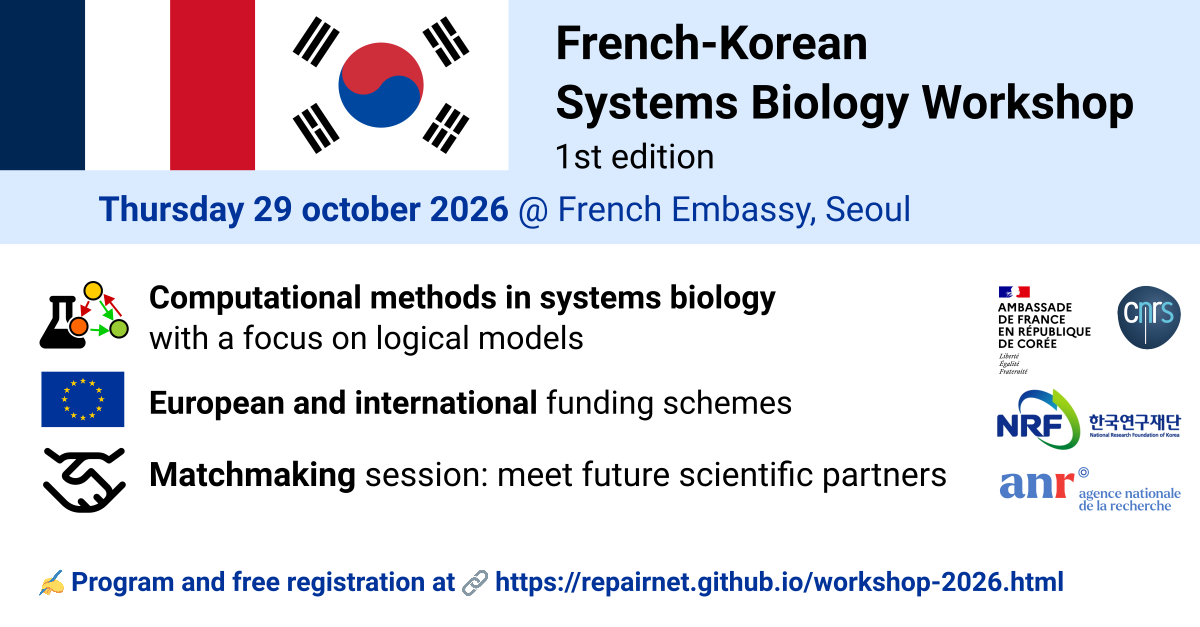
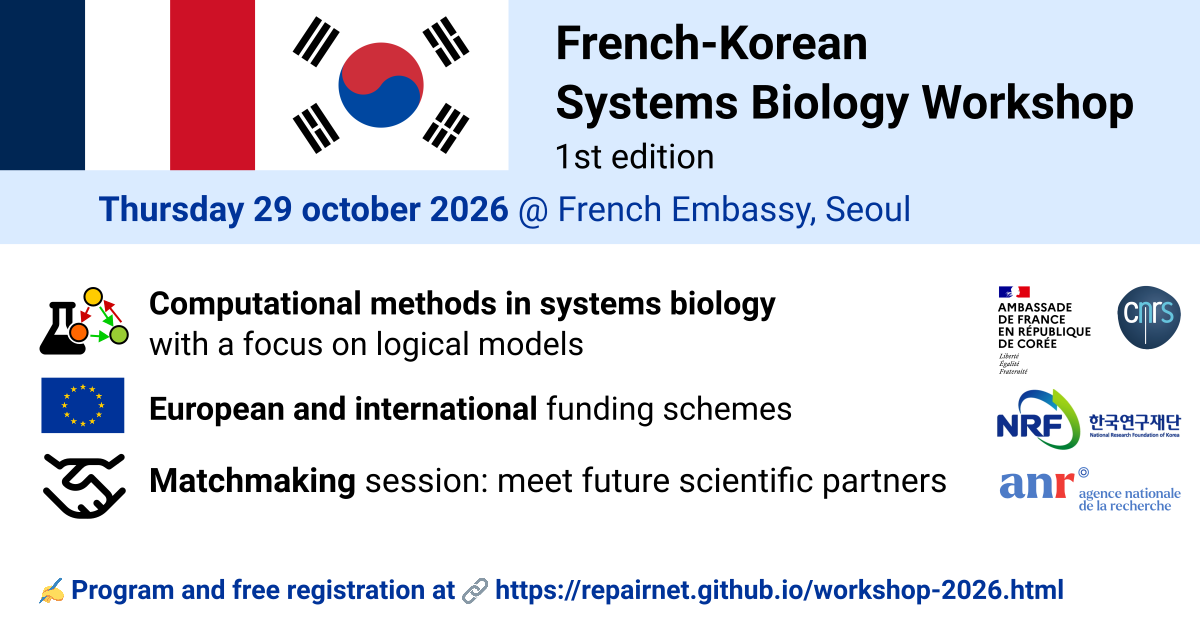
seo

diff --git a/workshop-2026.md b/workshop-2026.md
@@ -2,7 +2,7 @@
 layout: page
 title: French-Korean Systems Biology Workshop 2026
 image: /img/workshop-2026-1200.png
-description: Making connections between the French and Korean scientific communities in mathematical and computational methods for systems biology, with applications to cancer research. On Thursday 29 october 2026 at the French Embassy in Seoul.
+description: Making connections between the French and Korean scientific communities in mathematical and computational methods for systems biology, with applications to cancer research.
 ---
 
 📅 Date: **Thursday 29 october 2026**, from 9am to 4pm
